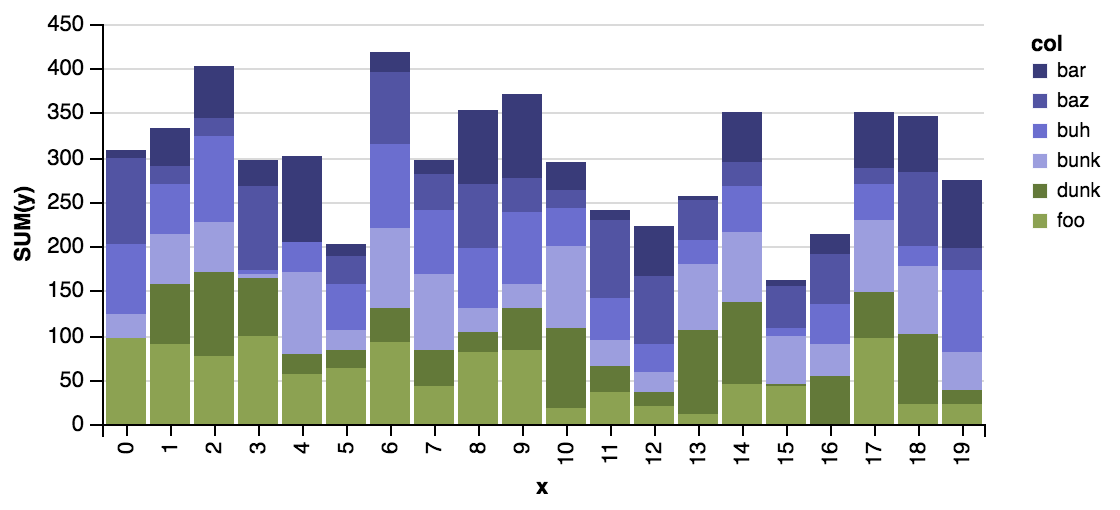
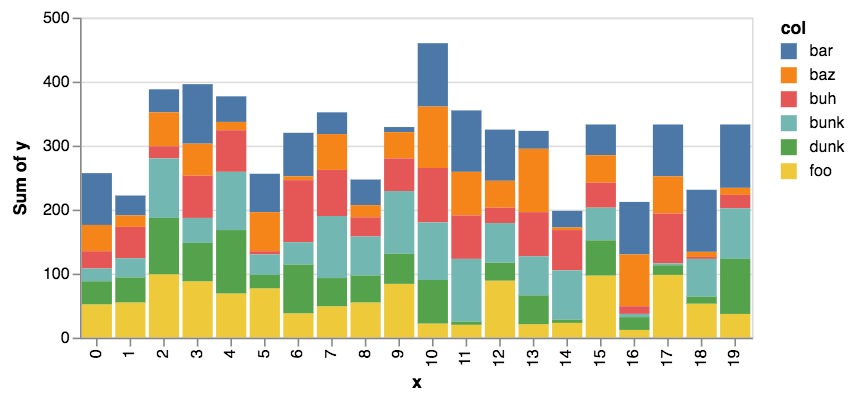
prep 1.0.0 release

diff --git a/README.md b/README.md
@@ -11,25 +11,21 @@ vizard is a tiny client/server library meant to enable REPL-based data visualiza
 Add vizard to your leiningen project dependencies
 
 ``` clojure
-[yieldbot/vizard "0.2.1"]
+[yieldbot/vizard "1.0.0"]
 ```
+
 
 In a repl:
 
 ``` clojure
 
-    (require '[vizard [core :refer :all] [plot :as plot] [lite :as lite]])
+    (require '[vizard [core :refer :all] [lite :as lite]])
 
     (start-plot-server!)
 
     (defn group-data [& names]
         (apply concat (for [n names]
         (map-indexed (fn [i x] {:x i :y x :col n}) (take 20 (repeatedly #(rand-int 100)))))))
-
-    (defn heat-data [w h]
-        (for [x (range w)
-              y (range h)]
-            {:x x :y y :z (rand)}))
 ```
 
 Now send some plots off. Here is a stacked bar plot:
@@ -42,8 +38,7 @@ Now send some plots off. Here is a stacked bar plot:
                                                   :field "y"
                                                   :type "quantitative"}
                                               :color {:field "col"
-                                                      :type "nominal"
-                                                      :scale {:range "category20b"}}}}
+                                                      :type "nominal"}}}
                                   (group-data "foo" "bar" "baz" "buh" "bunk" "dunk"))))
 
 ```
@@ -61,8 +56,7 @@ Here's a multiple series line plot:
                                              :y {:field "y"
                                                  :type "quantitative"}
                                              :color {:field "col"
-                                                     :type "nominal"
-                                                     :scale {:range "category20b"}}}}
+                                                     :type "nominal"}}}
                                  (group-data "foo" "bar" "baz" "buh" "bunk" "dunk"))))
 ```
 
@@ -73,14 +67,12 @@ Which should look about like this:
 ## Local Development
 
 First, start up figwheel
-``` sh
-lein figwheel
+``` clojure
+  (do-it-fools!)
 ```
-
-Next, start a normal CIDER or other nrepl client and connect as you would normally.
 
 ## License
 
-Copyright © 2015 Yieldbot, Inc.
+Copyright © 2017 Yieldbot, Inc.
 
 Distributed under the Eclipse Public License either version 1.0 or (at your option) any later version.
